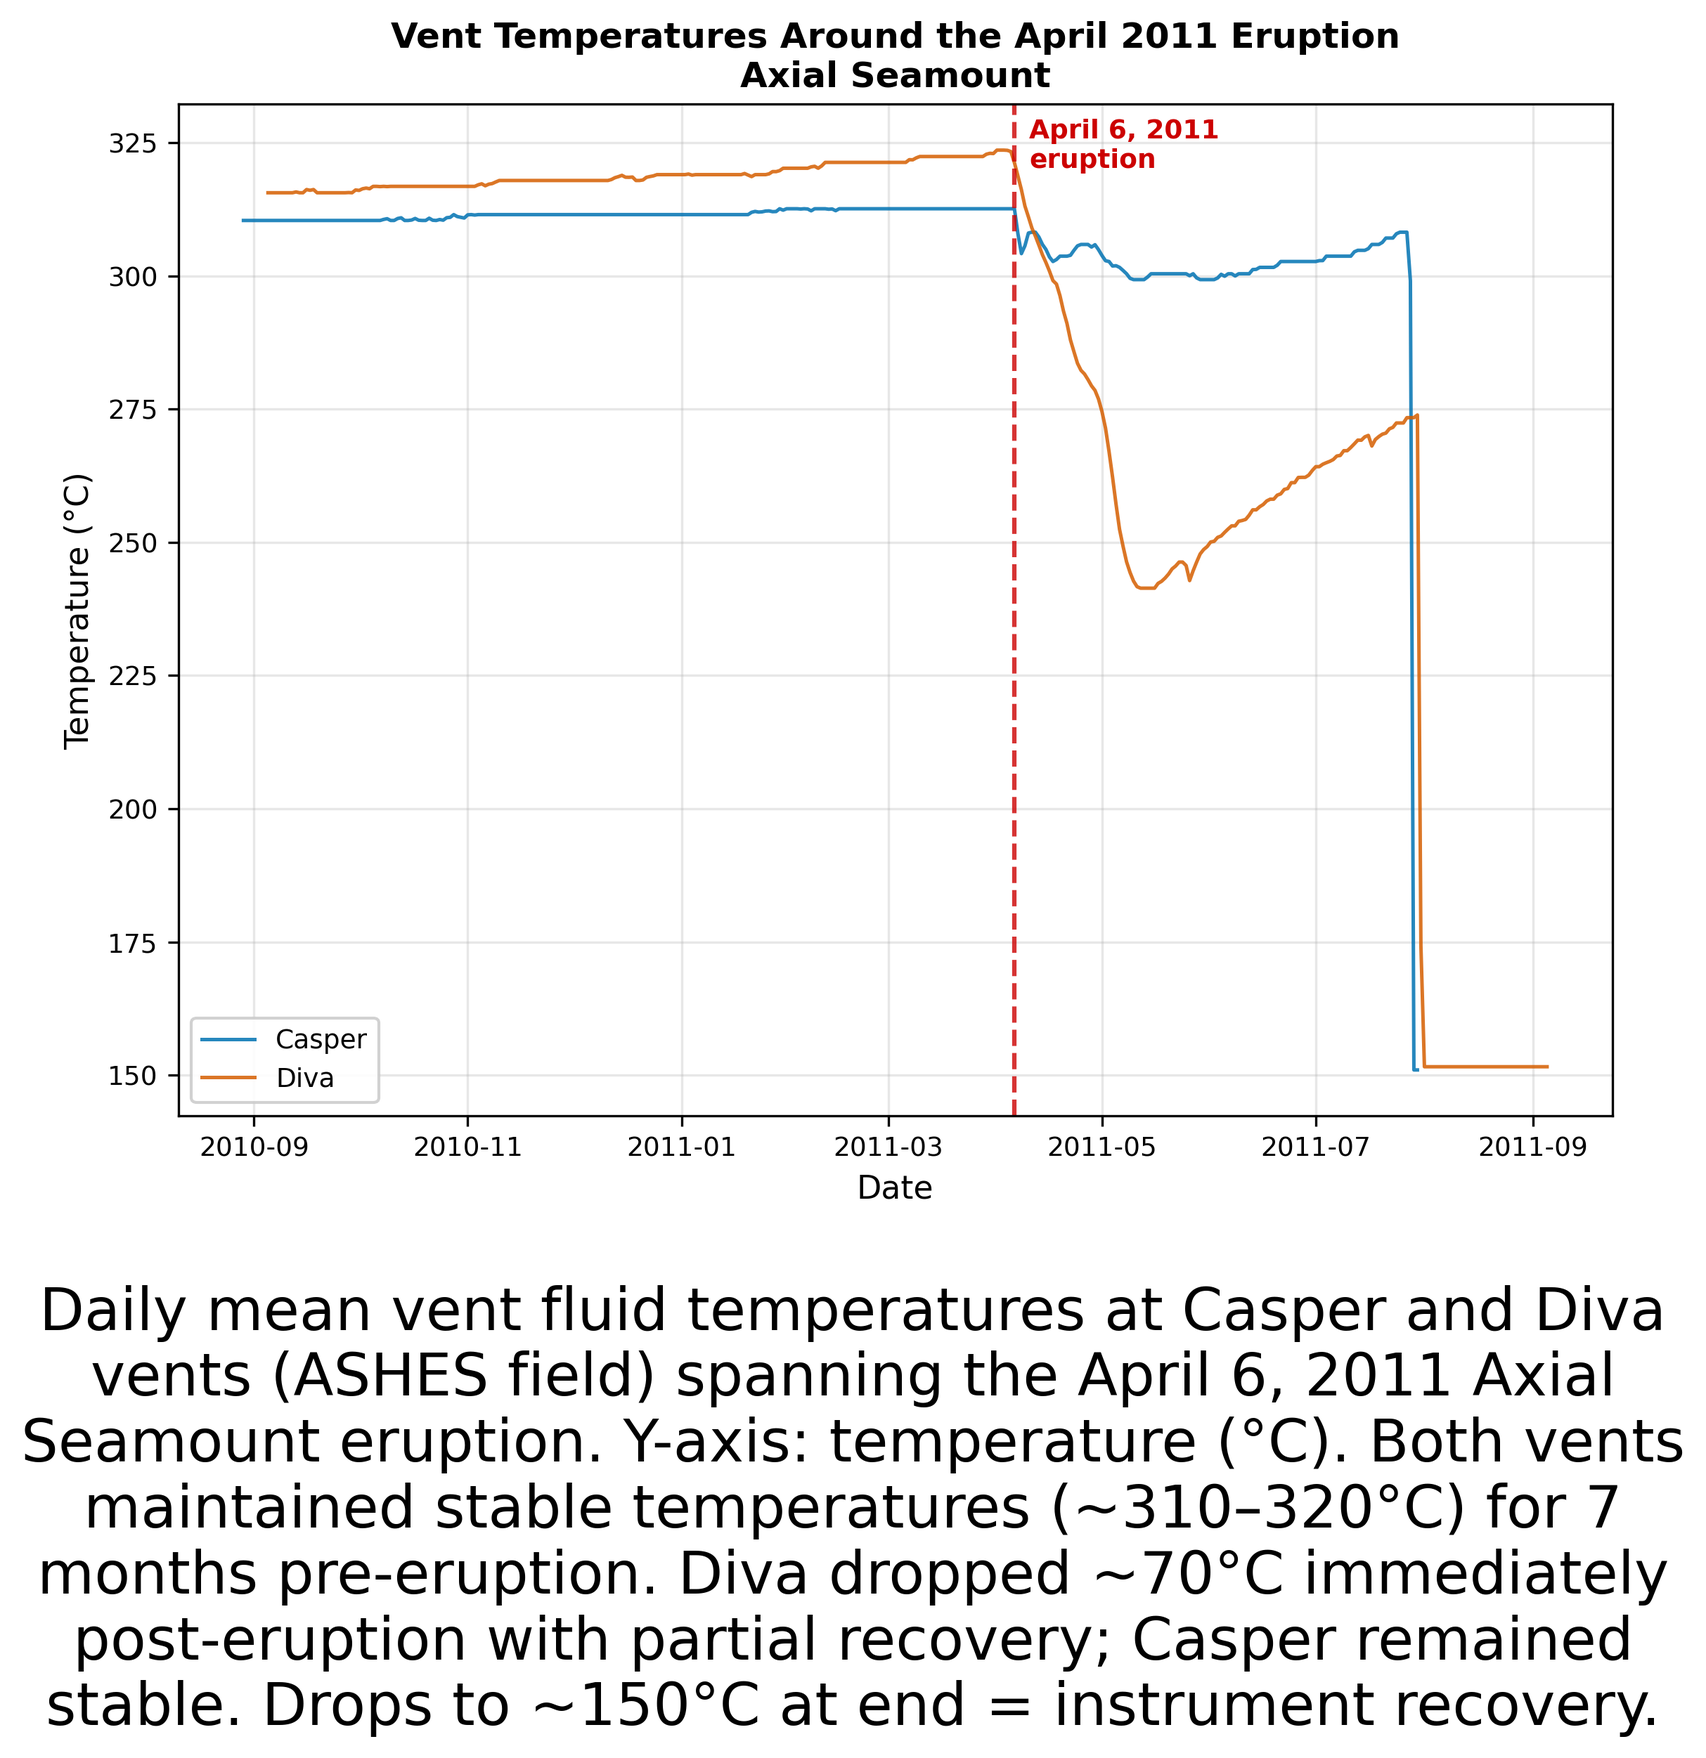
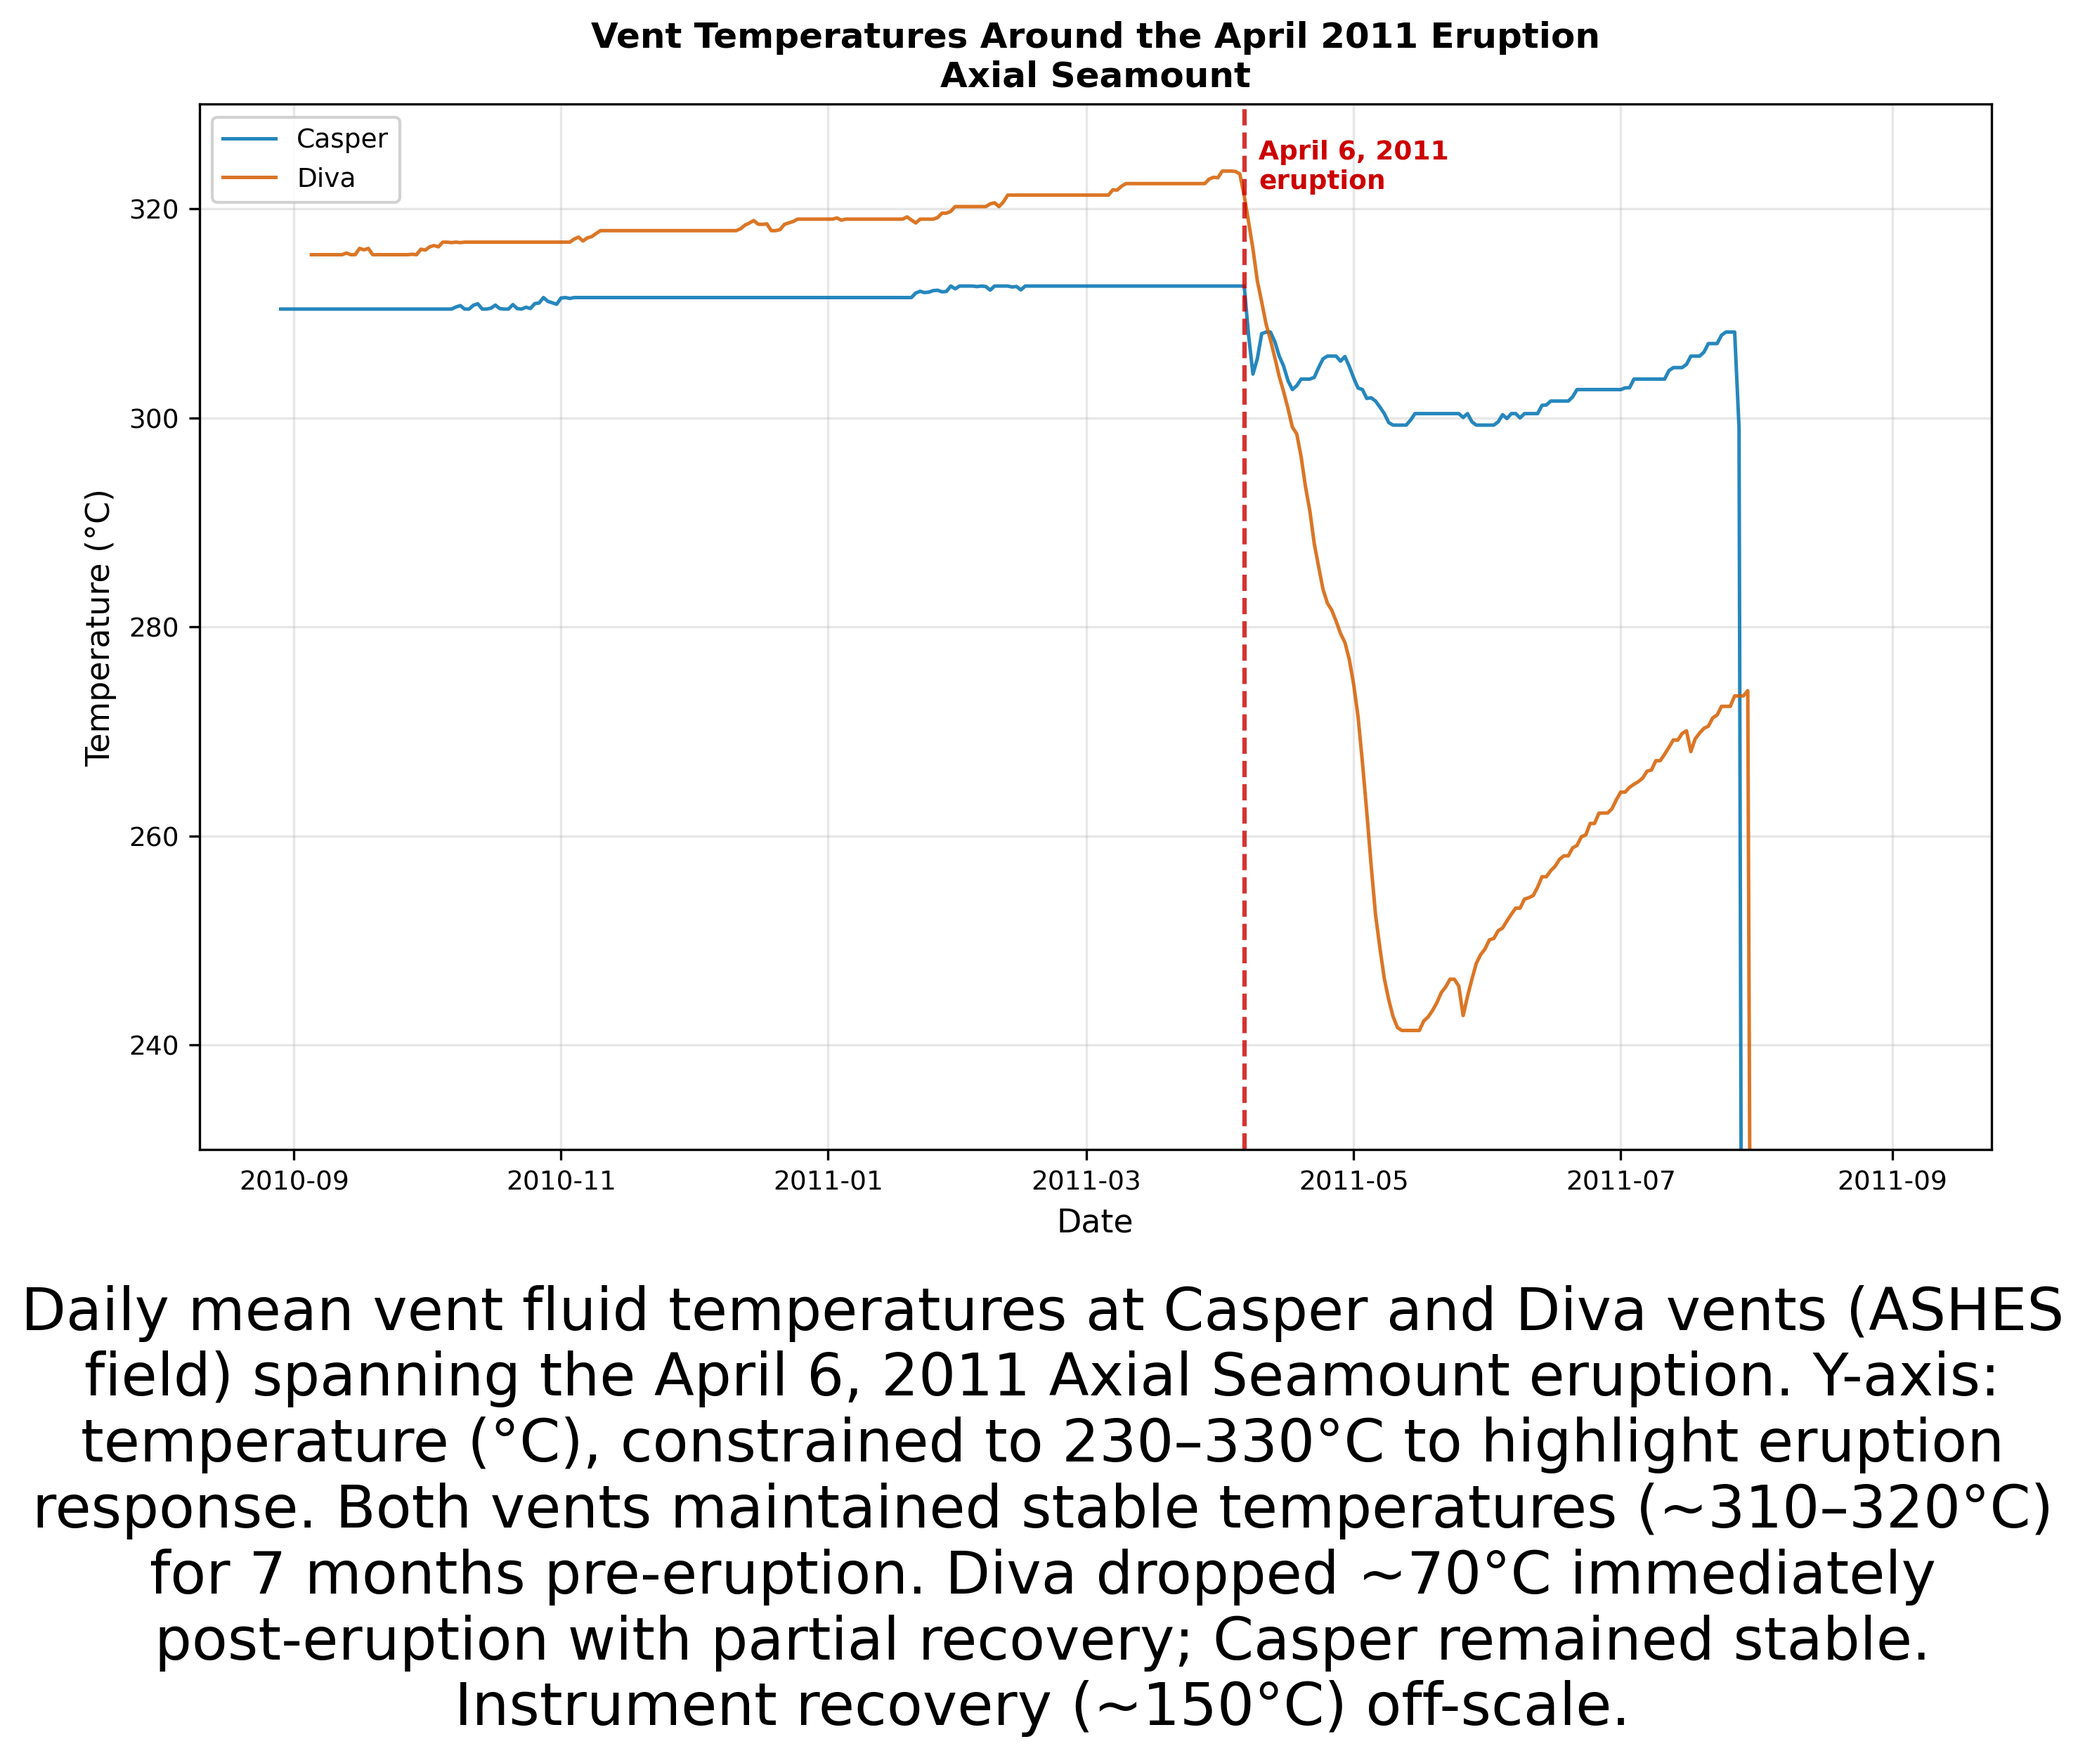
Low priority fixes: survey caption, eruption y-axis tightened
- Survey overview: add caption describing deployment structure
- Eruption 2011: tighten y-axis to 230-330°C to highlight eruption response
- Eruption 2011: move legend to upper left, update caption for off-scale note

diff --git a/survey.py b/survey.py
@@ -320,9 +320,9 @@ def add_figure_caption(fig, caption_text, fontsize=20):
 
 def fig_historical_eruption(records, fig_path, eruption_date=None):
     """Figure: Historical vent temperatures around the 2011 eruption."""
-    # Create figure with space for 24pt caption below
-    fig = plt.figure(figsize=(8, 8), dpi=300)
-    ax = fig.add_axes([0.1, 0.30, 0.85, 0.60])  # [left, bottom, width, height] - plot area
+    # Create figure with space for caption below
+    fig = plt.figure(figsize=(10, 8), dpi=300)
+    ax = fig.add_axes([0.1, 0.28, 0.85, 0.62])  # [left, bottom, width, height] - plot area
 
     for rec in records:
         deployed = rec[rec["deployed"]]
@@ -338,23 +338,26 @@ def fig_historical_eruption(records, fig_path, eruption_date=None):
     ax.grid(True, alpha=0.3)
     ax.tick_params(labelsize=9)
 
-    # Legend in lower left, inside plot
-    ax.legend(loc="lower left", fontsize=9, frameon=True, framealpha=0.9)
+    # Tighten y-axis to focus on eruption response (230-330°C)
+    ax.set_ylim(230, 330)
+
+    # Legend in upper left (away from eruption signal)
+    ax.legend(loc="upper left", fontsize=9, frameon=True, framealpha=0.9)
 
     # Eruption annotation
     if eruption_date:
         ax.axvline(eruption_date, color="#CC0000", linestyle="--", linewidth=1.5, alpha=0.8)
-        ax.annotate("April 6, 2011\neruption", xy=(eruption_date, ax.get_ylim()[1]),
+        ax.annotate("April 6, 2011\neruption", xy=(eruption_date, 328),
                     xytext=(5, -5), textcoords="offset points",
                     fontsize=9, color="#CC0000", va="top", fontweight="bold")
 
-    # Figure caption (24pt font for poster)
+    # Figure caption (20pt font for poster)
     caption = (
         "Daily mean vent fluid temperatures at Casper and Diva vents (ASHES field) spanning the "
-        "April 6, 2011 Axial Seamount eruption. Y-axis: temperature (°C). Both vents maintained "
-        "stable temperatures (~310–320°C) for 7 months pre-eruption. Diva dropped ~70°C immediately "
-        "post-eruption with partial recovery; Casper remained stable. Drops to ~150°C at end = "
-        "instrument recovery."
+        "April 6, 2011 Axial Seamount eruption. Y-axis: temperature (°C), constrained to 230–330°C "
+        "to highlight eruption response. Both vents maintained stable temperatures (~310–320°C) "
+        "for 7 months pre-eruption. Diva dropped ~70°C immediately post-eruption with partial "
+        "recovery; Casper remained stable. Instrument recovery (~150°C) off-scale."
     )
     add_figure_caption(fig, caption, fontsize=20)
 
@@ -433,7 +436,8 @@ def fig_survey_overview(records, fig_path):
     """Figure 1: All instruments as subplots (skip records with no deployed data)."""
     plotable = [r for r in records if r[r["deployed"]].shape[0] > 0]
     n = len(plotable)
-    fig, axes = plt.subplots(n, 1, figsize=(10, 2 * n), dpi=300, sharex=True)
+    fig, axes = plt.subplots(n, 1, figsize=(10, 2 * n + 2), dpi=300, sharex=True)
+    fig.subplots_adjust(bottom=0.12, top=0.95)
     if n == 1:
         axes = [axes]
 
@@ -471,8 +475,18 @@ def fig_survey_overview(records, fig_path):
         ax.axvline(deploy_change, color="#666666", linestyle=":", linewidth=0.8, alpha=0.7)
 
     fig.suptitle("MISO Temperature Survey — All Recent Instruments (2022–2025)",
-                 fontsize=13, fontweight="bold", y=1.01)
-    plt.tight_layout()
+                 fontsize=13, fontweight="bold")
+
+    # Figure caption
+    caption = (
+        "Daily mean vent temperatures from all recent MISO deployments at Axial Seamount. "
+        "Top 3 panels: 2022–2024 deployment (Inferno, Hell, El Guapo). "
+        "Bottom 5 panels: 2024–2025 deployment (Hell-ASHES, Inferno, Virgin, El Guapo Top, Trevi). "
+        "Vertical dashed line marks deployment change (June 2024). "
+        "Note varying y-axis scales across panels."
+    )
+    add_figure_caption(fig, caption, fontsize=20)
+
     fig.savefig(fig_path, dpi=300, bbox_inches="tight")
     plt.close(fig)
     print(f"Saved: {fig_path}")
